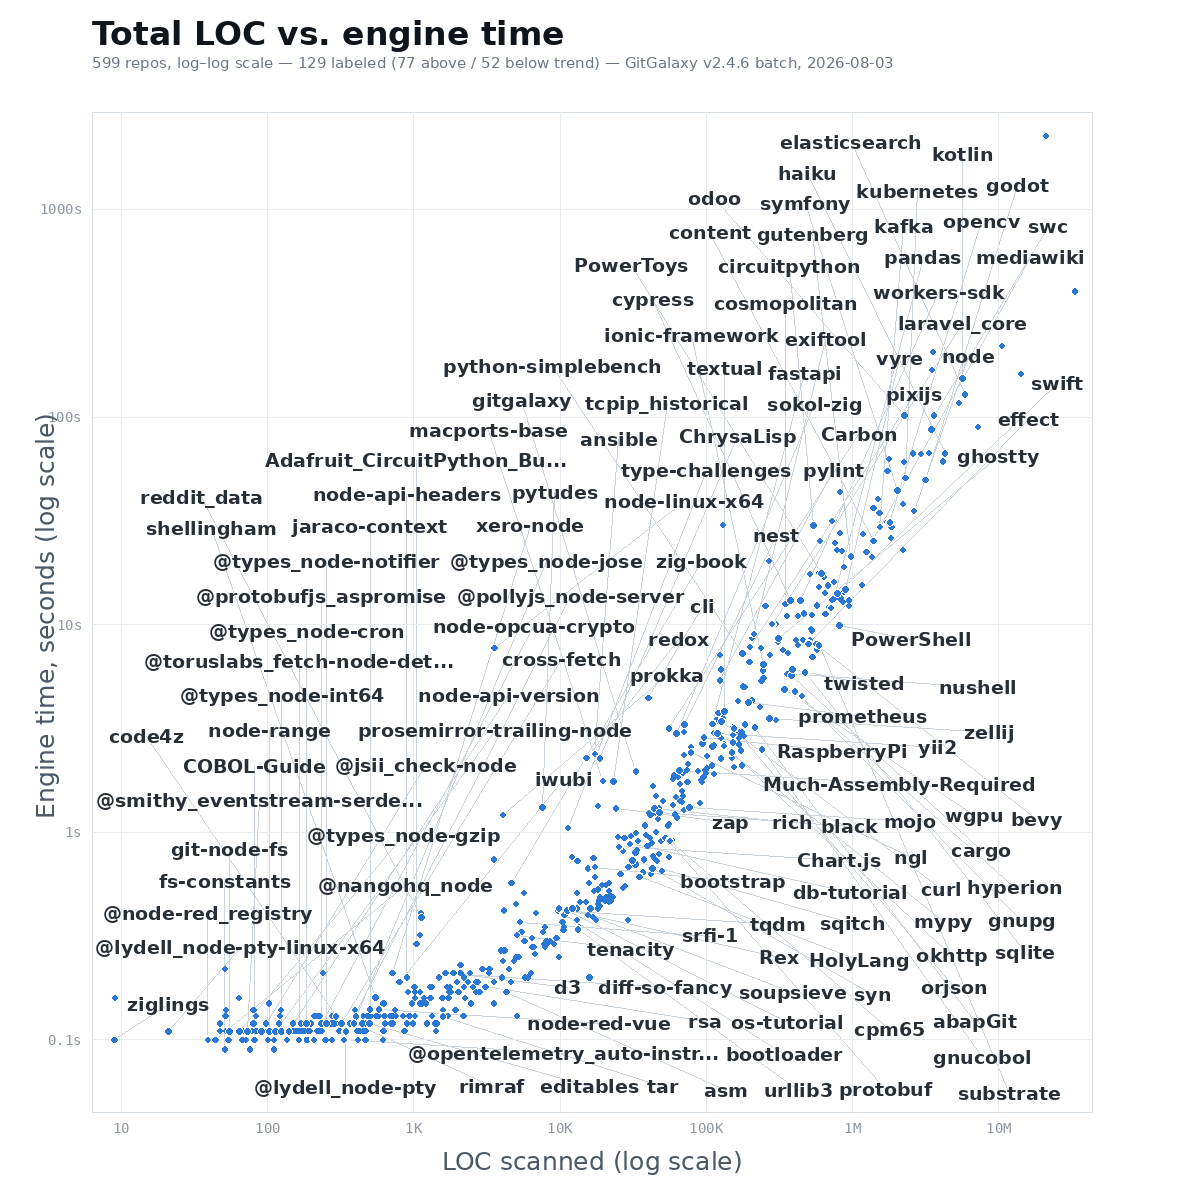
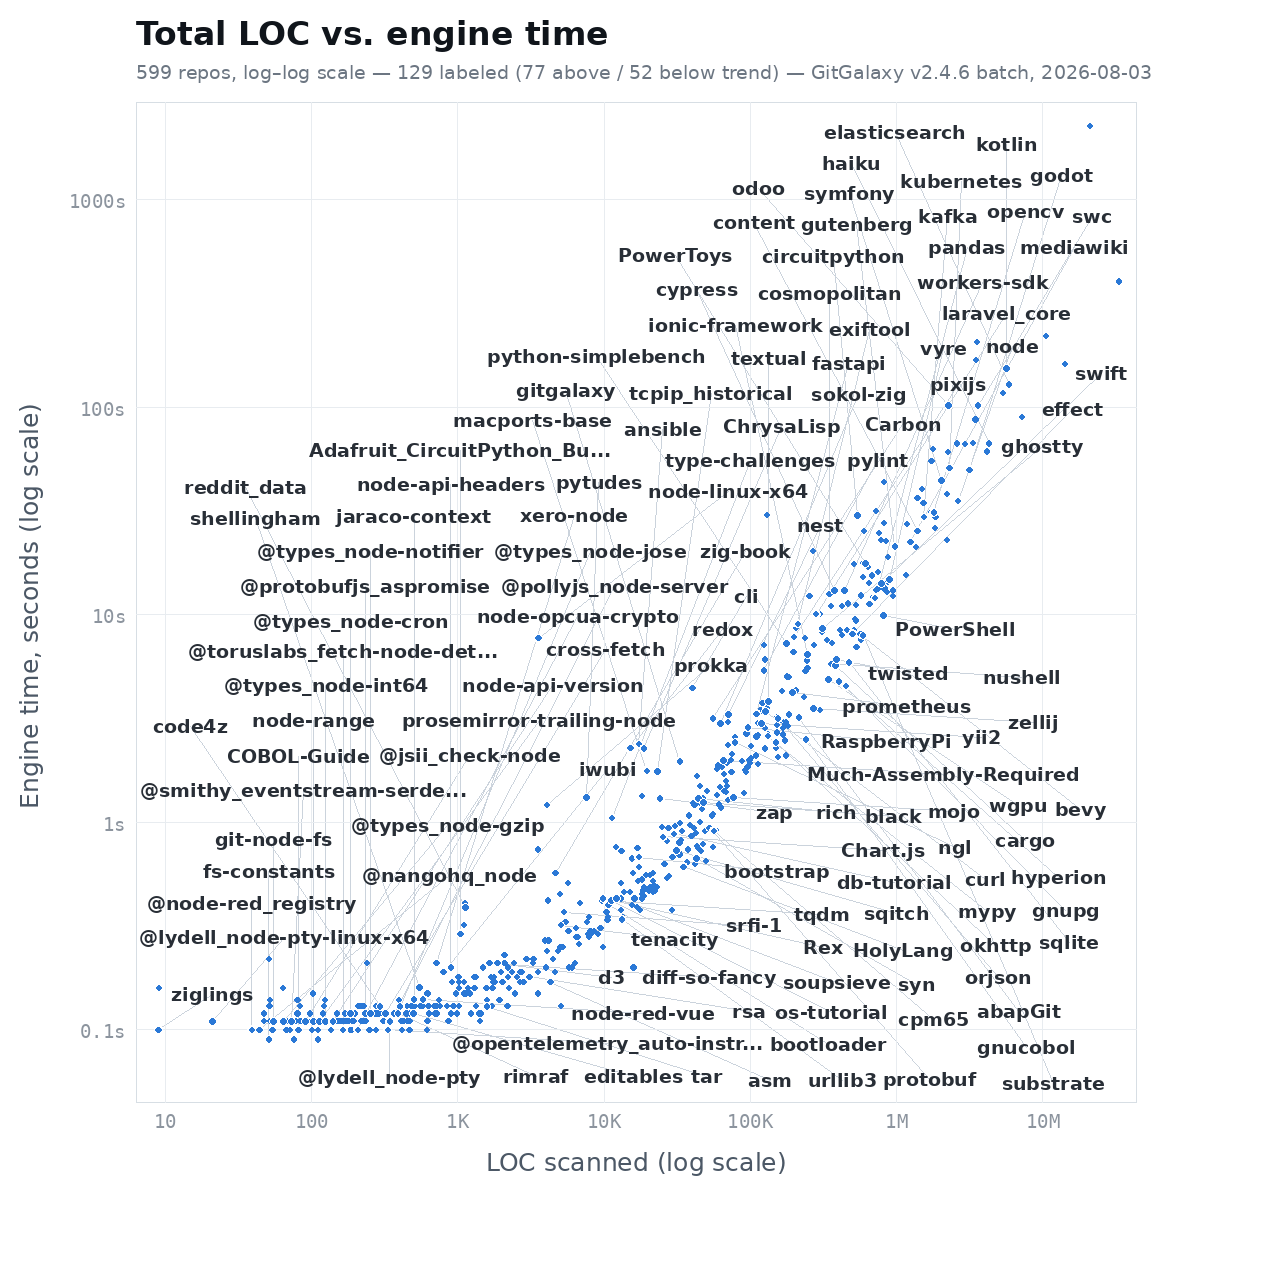
fix: raise axis/tick/subtitle chart fonts to the repo-label size floor
Tick, axis-title, and subtitle fonts were smaller than the 19px repo-label
font; bumping them to match (axis title was already above the floor, left
as-is) meant the old fixed margins started clipping/overlapping -- widened
tick labels ran into the rotated y-axis title. Margins are now computed from
actual font metrics instead of hardcoded constants, so this can't recur if
the label size changes again. Canvas grows from 1184px to 1272px square to
fit; layout stays square and font-size-driven.

diff --git a/tools/generate_speed_telemetry.py b/tools/generate_speed_telemetry.py
@@ -202,11 +202,13 @@ def upsert_history(version: str, summary: dict):
 def render_loc_vs_time_chart(version: str, summary: dict, out_path: Path):
     rows = summary["repos"]
 
+    LABEL_FONT_SIZE = 19  # repo point-labels -- the floor every other chart font must meet
+
     f_title = ImageFont.truetype(find_font(FONT_CANDIDATES_SANS_BOLD), 33)
-    f_sub = ImageFont.truetype(find_font(FONT_CANDIDATES_SANS), 15)
-    f_tick = ImageFont.truetype(find_font(FONT_CANDIDATES_MONO), 14)
-    f_axis = ImageFont.truetype(find_font(FONT_CANDIDATES_SANS), 25)
-    f_label = ImageFont.truetype(find_font(FONT_CANDIDATES_SANS_BOLD), 19)
+    f_sub = ImageFont.truetype(find_font(FONT_CANDIDATES_SANS), LABEL_FONT_SIZE)
+    f_tick = ImageFont.truetype(find_font(FONT_CANDIDATES_MONO), LABEL_FONT_SIZE)
+    f_axis = ImageFont.truetype(find_font(FONT_CANDIDATES_SANS), max(25, LABEL_FONT_SIZE))
+    f_label = ImageFont.truetype(find_font(FONT_CANDIDATES_SANS_BOLD), LABEL_FONT_SIZE)
 
     COL_BG = (255, 255, 255)
     COL_PLOT_BORDER = (215, 222, 228)
@@ -347,8 +349,36 @@ def render_loc_vs_time_chart(version: str, summary: dict, out_path: Path):
         if try_place_one(p, "bottom"):
             bot_count += 1
 
-    ML, MR, MT, MB = 92, 92, 112, 72
+    # Margins are sized around the actual font metrics rather than fixed constants,
+    # since every font here is pinned to (or derived from) LABEL_FONT_SIZE and a
+    # hardcoded margin that fit the old, smaller tick/subtitle fonts clips or
+    # overlaps once those fonts grow to match the label size floor.
+    GAP_TICK_AXIS = 10
+    GAP_TICK_YLABEL = 14
+    GAP_YLABEL_EDGE = 14
+    max_ytick_w = max(text_w(lbl, f_tick) for _, lbl in Y_TICKS)
+    ylabel_thickness = f_axis.size + 16
+    ML = MR = GAP_TICK_AXIS + max_ytick_w + GAP_TICK_YLABEL + ylabel_thickness + GAP_YLABEL_EDGE
+
+    tick_line_h = f_tick.size + 6
+    GAP_TICK_XLAB = 12
+    BOTTOM_PAD = 16
+    MB = GAP_TICK_AXIS - 2 + tick_line_h + GAP_TICK_XLAB + f_axis.size + BOTTOM_PAD
+
+    PAD_TOP = 14
+    GAP_TITLE_SUB = 14
+    GAP_SUB_PLOT = 22
+    MT = PAD_TOP + f_title.size + GAP_TITLE_SUB + f_sub.size + GAP_SUB_PLOT
+
+    # keep the outer canvas square by padding out whichever margin pair is smaller
+    if ML + MR > MT + MB:
+        MB += (ML + MR) - (MT + MB)
+    else:
+        extra = (MT + MB) - (ML + MR)
+        ML += extra // 2
+        MR += extra - extra // 2
     assert ML + MR == MT + MB
+
     W = H = ML + PLOT_W + MR
     img = Image.new("RGB", (W, H), COL_BG)
     d = ImageDraw.Draw(img)
@@ -366,24 +396,26 @@ def render_loc_vs_time_chart(version: str, summary: dict, out_path: Path):
         x = tx(logx(val))
         d.line([(x, py0), (x, py1)], fill=COL_GRID, width=1)
         tw = text_w(lbl, f_tick)
-        d.text((x - tw / 2, py1 + 8), lbl, font=f_tick, fill=COL_TICK)
+        d.text((x - tw / 2, py1 + GAP_TICK_AXIS - 2), lbl, font=f_tick, fill=COL_TICK)
     for val, lbl in Y_TICKS:
         y = ty(logy(val))
         d.line([(px0, y), (px1, y)], fill=COL_GRID, width=1)
         tw = text_w(lbl, f_tick)
-        d.text((px0 - tw - 10, y - 8), lbl, font=f_tick, fill=COL_TICK)
+        d.text((px0 - tw - GAP_TICK_AXIS, y - f_tick.size / 2), lbl, font=f_tick, fill=COL_TICK)
 
     xlab = "LOC scanned (log scale)"
     tw = text_w(xlab, f_axis)
-    d.text(((px0 + px1) / 2 - tw / 2, py1 + 34), xlab, font=f_axis, fill=COL_AXIS)
+    d.text(((px0 + px1) / 2 - tw / 2, py1 + GAP_TICK_AXIS - 2 + tick_line_h + GAP_TICK_XLAB),
+           xlab, font=f_axis, fill=COL_AXIS)
 
     ylab_text = "Engine time, seconds (log scale)"
     ylab_w = text_w(ylab_text, f_axis) + 8
-    ylab_img = Image.new("RGBA", (ylab_w, 34), (255, 255, 255, 0))
+    ylab_img = Image.new("RGBA", (ylab_w, ylabel_thickness), (255, 255, 255, 0))
     yd = ImageDraw.Draw(ylab_img)
     yd.text((0, 0), ylab_text, font=f_axis, fill=COL_AXIS)
     ylab_img = ylab_img.rotate(90, expand=True)
-    img.paste(ylab_img, (int(px0 - 62), int((py0 + py1) / 2 - ylab_img.height / 2)), ylab_img)
+    ylab_x = px0 - GAP_TICK_AXIS - max_ytick_w - GAP_TICK_YLABEL - ylabel_thickness
+    img.paste(ylab_img, (int(ylab_x), int((py0 + py1) / 2 - ylab_img.height / 2)), ylab_img)
 
     for p in pts:
         x, y = tx(p["x"]), ty(p["y"])
@@ -396,8 +428,8 @@ def render_loc_vs_time_chart(version: str, summary: dict, out_path: Path):
         lx, ly = tx(pl["lx"]), ty(pl["ly"])
         d.text((lx - pl["lw"] / 2, ly - LABEL_H / 2 + 1), pl["repo"], font=f_label, fill=COL_LABEL)
 
-    d.text((tx(0), ty(-98)), "Total LOC vs. engine time", font=f_title, fill=COL_TITLE)
-    d.text((tx(0), ty(-58)),
+    d.text((tx(0), PAD_TOP), "Total LOC vs. engine time", font=f_title, fill=COL_TITLE)
+    d.text((tx(0), PAD_TOP + f_title.size + GAP_TITLE_SUB),
            f"{len(rows)} repos, log–log scale — {len(placed)} labeled "
            f"({top_count} above / {bot_count} below trend) — GitGalaxy {version} batch, {summary['run_date']}",
            font=f_sub, fill=COL_SUB)
